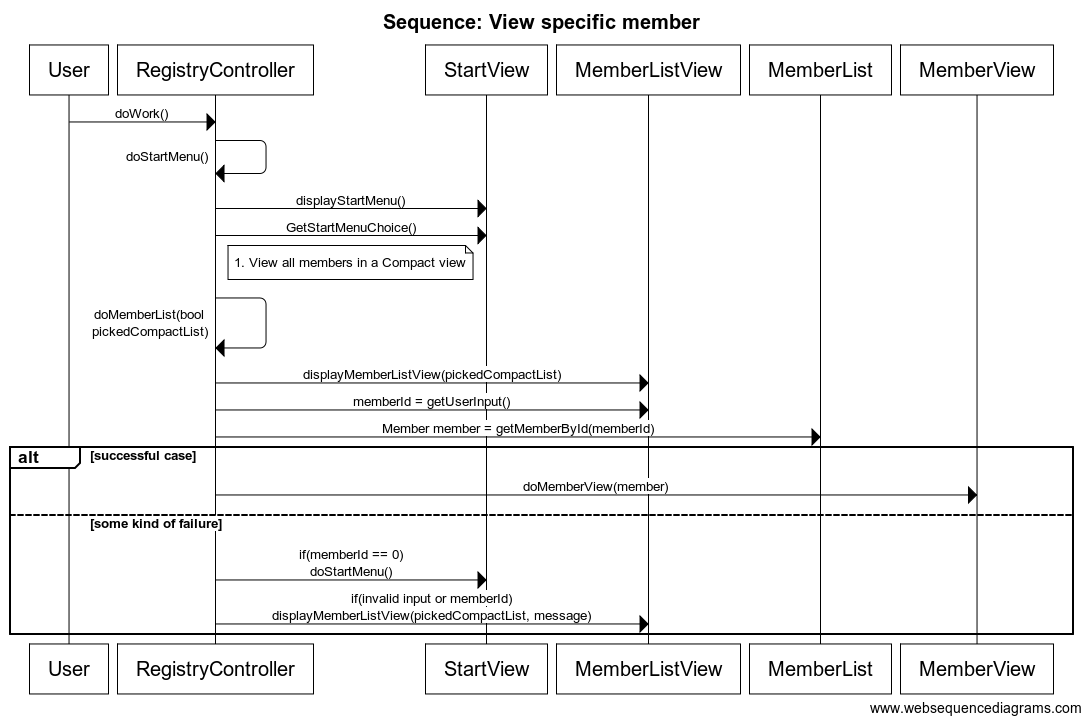
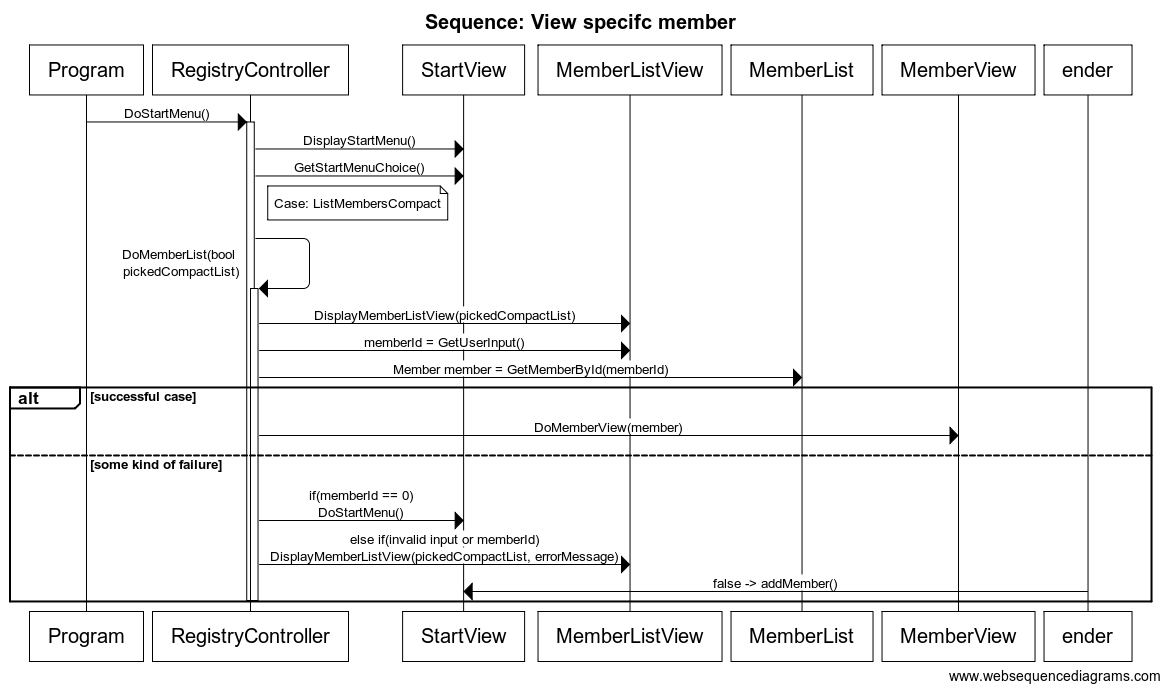
updated diagrams

Changed region(s): [[0.0, 0.0612, 1.0, 1.0], [0.3352, 0.0, 0.9751, 0.1531], [0.0, 0.7041, 0.0305, 0.7347]]

diff --git a/Workshop_2/README.md b/Workshop_2/README.md
@@ -1,19 +1,8 @@
-# Repo/Folder for Workshop 2.
-#### Course [1DV607](https://coursepress.lnu.se/kurs/objektorienterad-analys-och-design-med-uml/workshops-2/workshop-2-design/)
+# Workshop 2. [1DV607](https://coursepress.lnu.se/kurs/objektorienterad-analys-och-design-med-uml/workshops-2/workshop-2-design/)
 #### StudentId: dt222cc - wp14
 
-## Notes:
-- Class diagram/s can be found in the analysis-model.md or the folder raw.
-- I have two types of class diagrams:
- - One compact with the classes such as memberlist, member and boat.
- - One with MVC classes, which includes the controller and views.
+## Getting started:
+- I wrote a console application with Visual Studio 2013
 
-- Sequence diagrams can be found in the sequence-diagrams.md or the folder raw.
- - I covered add member and view specific member.
-
-## Initiation:
-- I wrote a console application with Visual Studio
-
-1. Clone the repo.
-2. Use the md files for class diagrams and sequence diagrams or view them inside the diagrams folder.
-3. The project with the vs.solution and .exe file are located inside the folder YachtClub.
+1. Clone the repo to access the solution and executable in the <b>"YachtClub"</b> folder.
+2. Use the md files <b>"1"</b> and <b>"2"</b> to view class diagrams and sequence diagrams or view them from inside the <b>"diagrams"</b> folder.

diff --git a/Workshop_2/3-requirements.md b/Workshop_2/3-requirements.md
@@ -1,5 +1,4 @@
-### Requirements for grade 2
-- [Course Page](https://coursepress.lnu.se/kurs/objektorienterad-analys-och-design-med-uml/workshops-2/workshop-2-design/)
+### Requirements for grade 2 [1DV607 Course Page](https://coursepress.lnu.se/kurs/objektorienterad-analys-och-design-med-uml/workshops-2/workshop-2-design/)
 
 Design and implement a simple member registry with CRUD (Create, Retrieve, Update, Delete) functionality. Implementation, class- and interaction-diagrams are to be created and presented. The interaction diagrams should show how a model-view separation is achieved and how the different requirements are met. Design and implementation should match. Save models and implementation in your portfolio. The focus is not to create a usable or fancy user interface but to have a robust and well documented design that can handle change and follows the GRASP. My recommendation is that you base your work on a console application.
 

diff --git a/Workshop_2/2-sequence-diagrams.md b/Workshop_2/2-sequence-diagrams.md
@@ -2,13 +2,12 @@
 #### StudentId: dt222cc
 
 ### Notes:
-- It was only needed to make one input and one output requirement.
-- I covered add member and view specific member, display startmenu is in it aswell, as the starting point
+- I covered add member and view specific member, display startmenu is in it aswell, as the starting point.
 
 ## View specific member
+- From the start menu: View members in compact or verbose list then pick specific member by memberId.
 ![view-member-sequence](diagrams/sequence-viewSpecificMember.png)
 
--------------------------------------------------
-
 ## Add member
+- From the start menu: Pick add member. Input name then personal number. Redirect to the new member's memberview.
 ![add-member-sequence](diagrams/sequence-addMember.png)

diff --git a/Workshop_2/1-class-diagrams.md b/Workshop_2/1-class-diagrams.md
@@ -12,4 +12,4 @@
 ![class-diagram](diagrams/class-diagram.png)
 
 ## Class diagram 2:
-![latest-class-diagram](diagrams/updatedClassDiagram.png)
+![class-diagram-2](diagrams/class-diagram-2.png)
